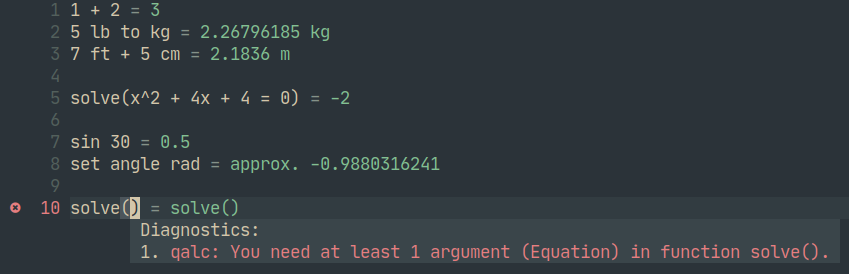
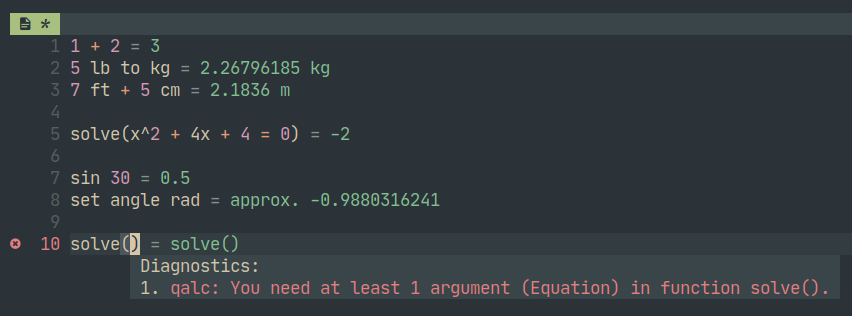
feat: add QalcAttach command

Changed region(s): [[0.0612, 0.2628, 0.5206, 0.7007], [0.0, 0.7007, 0.98, 0.9635], [0.0, 0.0, 0.3981, 0.2336]]

diff --git a/README.md b/README.md
@@ -2,7 +2,7 @@
 
 *inspired by [quickmath.nvim](https://github.com/jbyuki/quickmath.nvim)*
 
-A Neovim plugin that creates/attaches to a buffer and runs [`qalc`](https://github.com/Qalculate/libqalculate) on the contents
+A Neovim plugin that creates/attaches to a buffer and runs [the `qalc` CLI program](https://github.com/Qalculate/libqalculate) on the contents
 
 ![screenshot](assets/screenshot.png)
 
@@ -17,7 +17,7 @@ Requires the [`qalc`](https://github.com/Qalculate/libqalculate) binary executab
 
 Install using your preferred plugin manager:
 
-- [vim-plug](https://github.com/junegunn/vim-plug).
+- [vim-plug](https://github.com/junegunn/vim-plug)
 ```vim
 Plug 'Apeiros-46B/qalc.nvim'
 ```
@@ -29,10 +29,12 @@ use 'Apeiros-46B/qalc.nvim'
 
 ## Usage
 
-Edit a file with extension `.qalc` or use the `:Qalc` command.  
-The `:Qalc` command optionally accepts one argument, which will be used as the name of the newly created buffer.
+Edit a file with extension `.qalc` or use the `:Qalc` command.
+The `:Qalc` command optionally accepts one argument; the name of the newly created buffer.
 
-All commands/expressions accepted in the buffer are no different from [`qalc`](https://github.com/Qalculate/libqalculate) commands.
+Alternatively, you can attach to an existing buffer using `:QalcAttach`.
+
+All commands accepted in the buffer are simply [`qalc`](https://github.com/Qalculate/libqalculate) commands.
 
 ## Configuration
 
@@ -50,42 +52,42 @@ require('qalc').setup({
   ```lua
   local config = {
       -- default name of a newly opened buffer
-      -- leave empty or nil to open an unnamed buffer
-      bufname = '', -- string
+      -- set to '' or nil to open an unnamed buffer
+      bufname = nil, -- string?
 
       -- extra command arguments for Qalculate
       -- do NOT use the option `-t`/`--terse`; it will break the plugin
       -- example: { '--set', 'angle deg' } to use degrees as the default angle unit
-      cmd_args = {}, -- table
+      cmd_args = nil, -- table?
 
       -- the plugin will set all attached buffers to have this filetype
-      set_ft = 'qalc', -- string
+      -- set to '' or nil to disable setting the filetype
+      -- the default is provided for basic syntax highlighting
+      set_ft = 'config', -- string?
 
       -- file extension to automatically attach qalc to
-      attach_extension = '*.qalc', -- string
-
-      -- whether or not to show a sign before the result
-      show_sign = true, -- boolean
+      -- set to '' or nil to disable automatic attaching
+      attach_extension = '*.qalc', -- string?
 
       -- sign shown before result
       sign = '=', -- string
+
+      -- whether or not to show a sign before the result
+      show_sign = true, -- boolean
 
       -- whether or not to right align virtual text
       right_align = false, -- boolean
 
       -- highlight groups
       highlights = {
-          number   = '@number',
-          operator = '@operator',
-          unit     = '@field',
           sign     = '@conceal', -- sign before result
           result   = '@string',  -- result in virtual text
       },
 
       -- diagnostic options
-      -- this can also be set to `nil` to respect the options in your neovim configuration
+      -- set to nil to respect the options in your neovim configuration
       -- (see `:h vim.diagnostic.config()`)
-      diagnostics = { -- table|nil
+      diagnostics = { -- table?
           underline = true,
           virtual_text = false,
           signs = true,
